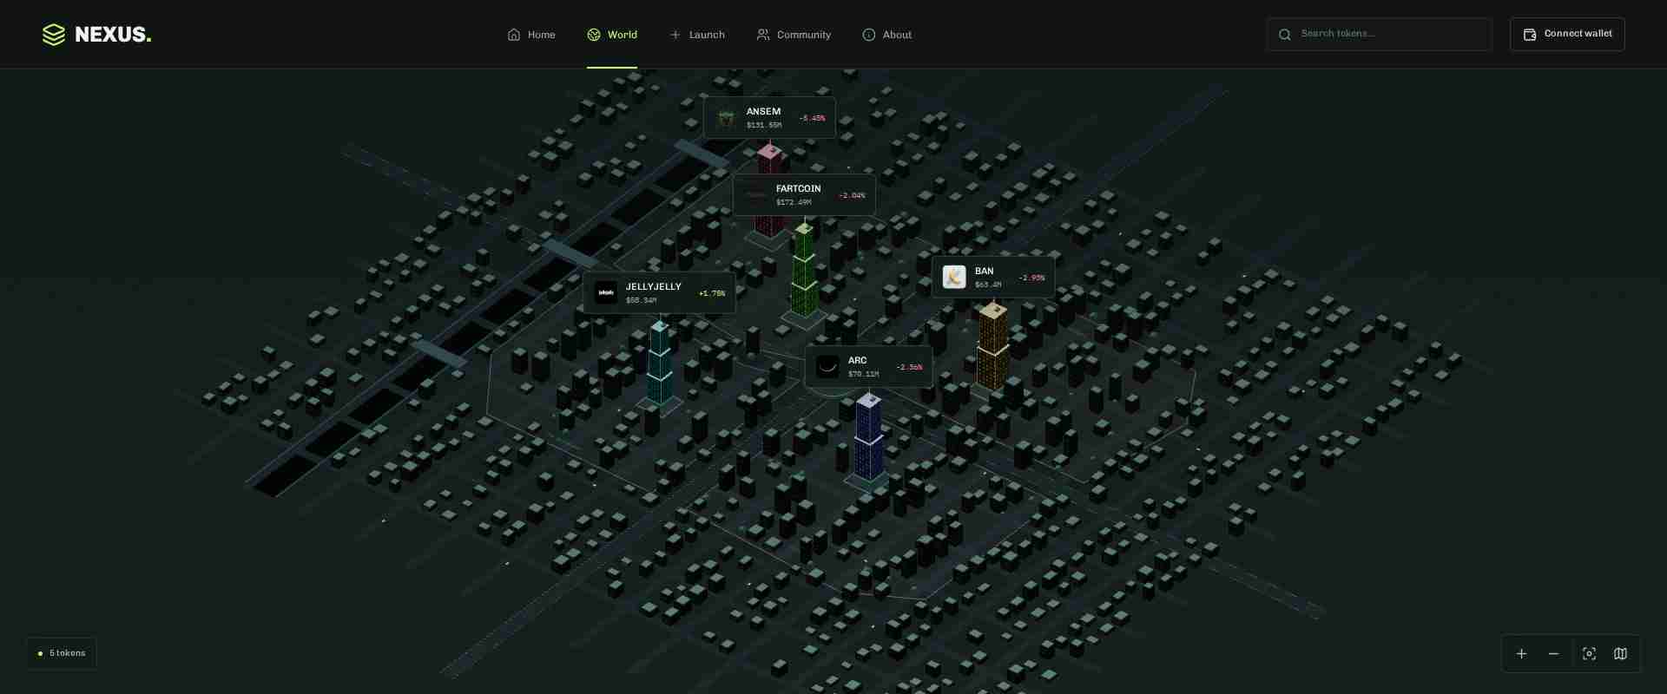
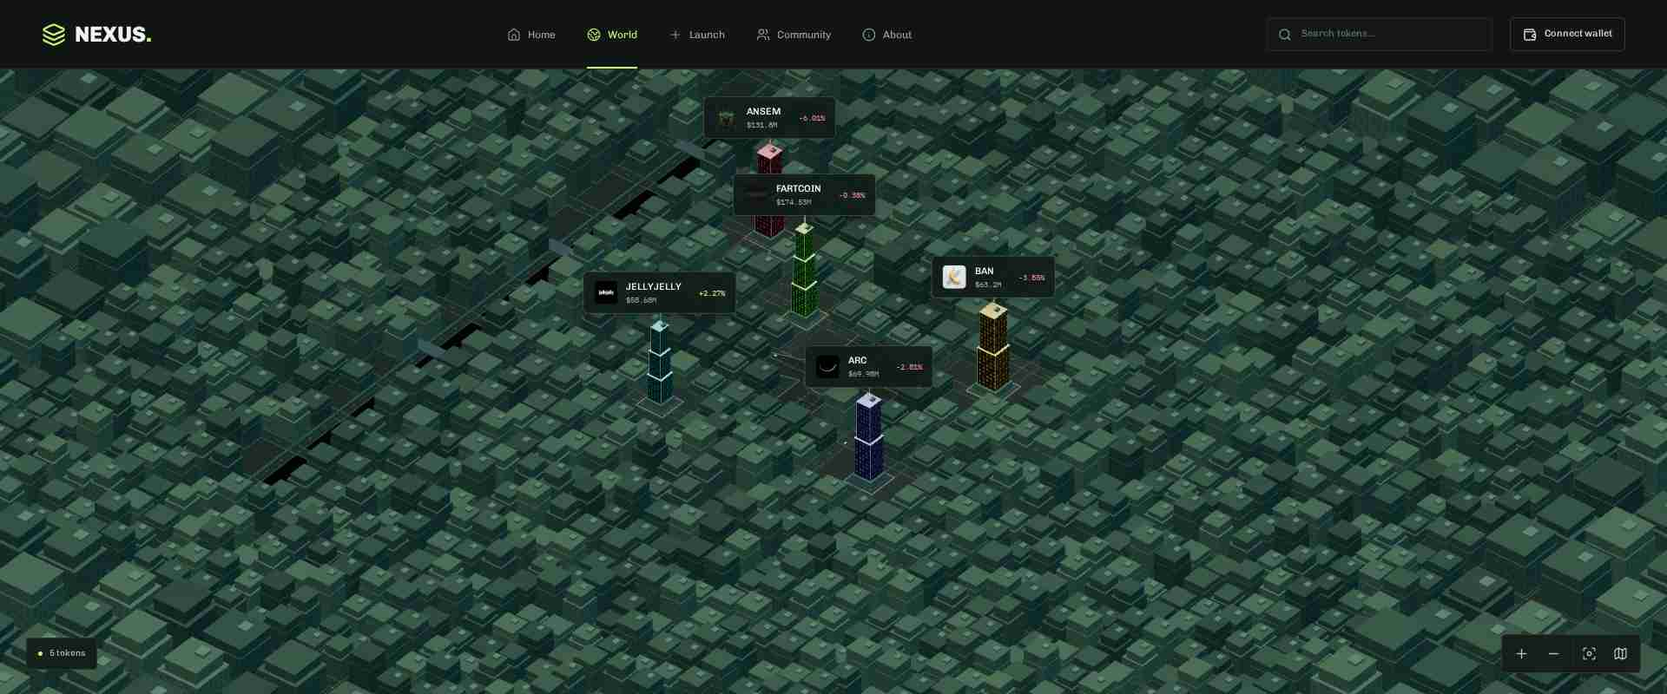
## Sudah ditambahkan - **Undangan komunitas:** tombol Share dan Copy link. Penerima langsung masuk ke komunitas tanpa perlu login untuk membacanya. - **World lebih penuh:** 7.406 bangunan pendukung mengisi kota, sementara lima bangunan token asli tetap berwarna dan mudah dikenali—tanpa token palsu. 
[Buka World](https://world-launchpad-core.preview.emergentagent.com/world) · [Coba undangan komunitas](https://world-launchpad-core.preview.emergentagent.com/community/fartcoin)

**Pilihan selanjutnya**
- **QR Undangan**: Tambahkan kode QR agar teman dapat langsung membuka komunitas token dengan memindai undangannya
- **Bangunan Unik**: Tambahkan variasi bentuk bangunan token agar setiap komunitas memiliki identitas visual yang berbeda
- **Komunitas Favorit**: Tambahkan komunitas favorit di halaman Community agar pengguna mudah kembali ke tempat yang sering dikunjungi

Emergent-Commit-Key: 2be3ad929a50af1b5e991f4d00f5c9751beb01b7463fbddbb104a3bbf7f26a69

diff --git a/frontend/src/world/geometry.js b/frontend/src/world/geometry.js
@@ -1,4 +1,6 @@
 import * as THREE from 'three';
+import {CITY_RADIUS,makeStreetNetwork} from './scenery';
+export {makeScenery} from './scenery';
 export const districtData=[
  {id:'meme',name:'MEME QUARTER',color:'#b6f36e',x:-38,z:-25,points:[[-75,-61],[-7,-61],[-7,-4],[-25,2],[-75,-4]]},
  {id:'defi',name:'DEFI HEIGHTS',color:'#f1bd6c',x:34,z:-28,points:[[3,-61],[70,-61],[82,-42],[77,-6],[3,-6]]},
@@ -11,20 +13,14 @@ export function line(parent,points,color,opacity=1){const g=new THREE.BufferGeom
 export function floorShape(parent,points,color,opacity=1,y=.05){const s=new THREE.Shape();points.forEach(([x,z],i)=>i?s.lineTo(x,-z):s.moveTo(x,-z));s.closePath();const m=new THREE.Mesh(new THREE.ShapeGeometry(s),new THREE.MeshBasicMaterial({color,transparent:true,opacity,side:THREE.DoubleSide}));m.rotation.x=-Math.PI/2;m.position.y=y;parent.add(m);return m;}
 function textPlane(parent,text,x,z,color,size=7,width=40){const c=document.createElement('canvas');c.width=1024;c.height=128;const ctx=c.getContext('2d');ctx.font='500 46px monospace';ctx.fillStyle=color;ctx.textAlign='center';ctx.fillText(text,512,82);const t=new THREE.CanvasTexture(c);t.colorSpace=THREE.SRGBColorSpace;const p=new THREE.Mesh(new THREE.PlaneGeometry(width,size),new THREE.MeshBasicMaterial({map:t,transparent:true,opacity:.66,depthWrite:false}));p.rotation.x=-Math.PI/2;p.position.set(x,.12,z);parent.add(p);}
 export function makeTerrain(scene){
- const ground=box(scene,0,-1,0,600,.7,600,mat('#0b1114'));
- const grid=new THREE.GridHelper(520,104,'#1a242b','#151d22');grid.position.y=-.24;scene.add(grid);
+ const ground=box(scene,0,-1,0,CITY_RADIUS*2+120,.7,CITY_RADIUS*2+120,mat('#15201b'));
  const territories=new THREE.Group();scene.add(territories);
  districtData.forEach(d=>{
   floorShape(territories,d.points,d.color,.044,.03);
   line(territories,[...d.points,d.points[0]].map(([x,z])=>[x,.09,z]),d.color,.45);
   textPlane(scene,d.name,d.x,d.z+(d.z<0?-27:27),d.color,4.2,36);
  });
- const asphalt=mat('#141c21'),curb=mat('#273037');
- // A connected street network crosses district borders and extends beyond the city center.
- for(let i=-108;i<=108;i+=18){
-  box(scene,i,-.09,0,2.8,.08,260,asphalt);box(scene,0,-.09,i,260,.08,2.8,asphalt);
-  for(let j=-130;j<130;j+=6){box(scene,i,.01,j,.09,.025,1.5,curb);box(scene,j,.01,i,1.5,.025,.09,curb);}
- }
+ const asphalt=mat('#141c21');makeStreetNetwork(scene);
  const lane=mat('#50635e',{emissive:'#94bfad',emissiveIntensity:.25});
  box(scene,0,-.05,0,5,.07,320,asphalt);box(scene,0,-.05,0,320,.07,5,asphalt);
  [-2.1,2.1].forEach(x=>{box(scene,x,.005,0,.035,.03,320,lane);box(scene,0,.005,x,320,.03,.035,lane);});
@@ -37,28 +33,6 @@ export function makeTerrain(scene){
  const crystal=new THREE.Mesh(new THREE.OctahedronGeometry(2.1),mat('#c3f795',{emissive:'#8bd55d',emissiveIntensity:.8,metalness:.65}));crystal.position.y=5;scene.add(crystal);
  textPlane(scene,'GENESIS PLAZA',0,11,'#aabbb4',3,21);
  return {territories,crystal,ground};
-}
-export function makeScenery(scene,tokens){
- const positions=[];let seed=72;const random=()=>{seed=(seed*16807)%2147483647;return(seed-1)/2147483646;};
- for(let x=-120;x<124;x+=6)for(let z=-105;z<110;z+=6){
-  if(Math.abs(x%18)<3 || Math.abs(z%18)<3 || Math.abs(x+86)<7 || Math.hypot(x,z)<13)continue;
-  if(tokens.some(t=>Math.hypot(t.x-x,t.z-z)<7.5))continue;
-  if(random()<.23)continue;
-  const central=Math.abs(x)<76&&Math.abs(z)<69;
-  positions.push({x:x+random()*1.5,z:z+random()*1.5,h:(1+random()*7)*(central?1:.5),w:2+random()*1.6,d:2+random()*2,r:random()});
- }
- const geometry=new THREE.BoxGeometry(1,1,1),material=mat('#334048');
- const blocks=new THREE.InstancedMesh(geometry,material,positions.length),roofs=new THREE.InstancedMesh(geometry,mat('#50615f'),positions.length);
- const windows=new THREE.InstancedMesh(geometry,new THREE.MeshBasicMaterial({color:'#899b86',transparent:true,opacity:.3}),positions.length*3);
- const dummy=new THREE.Object3D();
- positions.forEach((p,i)=>{
-  dummy.position.set(p.x,p.h/2,p.z);dummy.scale.set(p.w,p.h,p.d);dummy.updateMatrix();blocks.setMatrixAt(i,dummy.matrix);
-  blocks.setColorAt(i,new THREE.Color(p.r>.6?'#35434a':p.r>.3?'#28383a':'#3b454b'));
-  dummy.position.y=p.h+.1;dummy.scale.set(p.w*.8,.18,p.d*.8);dummy.updateMatrix();roofs.setMatrixAt(i,dummy.matrix);
-  for(let j=0;j<3;j++){dummy.position.set(p.x,p.h*(.25+j*.25),p.z+p.d/2+.01);dummy.scale.set(p.w*.68,.08,.02);dummy.updateMatrix();windows.setMatrixAt(i*3+j,dummy.matrix);}
- });scene.add(blocks,roofs,windows);
- const treeMat=mat('#385449'),trunkMat=mat('#374039');
- for(let i=0;i<85;i++){const x=random()*152-76,z=random()*132-66;if(tokens.some(t=>Math.hypot(t.x-x,t.z-z)<7)||Math.abs(x)<5||Math.abs(z)<5)continue;const tree=new THREE.Mesh(new THREE.IcosahedronGeometry(.7+random()*.5,0),treeMat);tree.position.set(x,1.5,z);scene.add(tree);box(scene,x,0,z,.18,1.2,.18,trunkMat);}
 }
 function windowTexture(color){const c=document.createElement('canvas');c.width=64;c.height=128;const ctx=c.getContext('2d');ctx.fillStyle='#172a29';ctx.fillRect(0,0,64,128);ctx.fillStyle=color;for(let y=7;y<128;y+=13)for(let x=7;x<64;x+=13){ctx.globalAlpha=(x+y)%3===0?.35:.7;ctx.fillRect(x,y,5,6);}const t=new THREE.CanvasTexture(c);t.colorSpace=THREE.SRGBColorSpace;t.wrapS=t.wrapT=THREE.RepeatWrapping;return t;}
 export const tokenHeight=cap=>cap==null?4:Math.min(38,5+Math.log10(Math.max(cap,1000)/100000+1)*7.2);

diff --git a/frontend/src/world/CityCanvas.jsx b/frontend/src/world/CityCanvas.jsx
@@ -18,16 +18,17 @@ export const CityCanvas=forwardRef(({tokens,onSelect,district,layers,onCamera},r
  }),[]);
  useEffect(()=>{
   if(!mount.current)return;
-  const host=mount.current;const scene=new THREE.Scene();scene.background=new THREE.Color('#0b1013');scene.fog=new THREE.FogExp2('#0b1013',.0022);
+  const host=mount.current;const scene=new THREE.Scene();scene.background=new THREE.Color('#0b1013');scene.fog=new THREE.FogExp2('#0b1013',.00115);
   let renderer;
   try{renderer=new THREE.WebGLRenderer({antialias:true,alpha:false,powerPreference:'high-performance',preserveDrawingBuffer:true});}catch{setFailed(true);return;}
   renderer.setPixelRatio(Math.min(window.devicePixelRatio,1.5));renderer.setSize(host.clientWidth,host.clientHeight);renderer.outputColorSpace=THREE.SRGBColorSpace;renderer.toneMapping=THREE.ACESFilmicToneMapping;renderer.toneMappingExposure=1.4;
   renderer.domElement.setAttribute('data-testid','city-canvas');renderer.domElement.setAttribute('aria-label','Interactive 3D token city');host.prepend(renderer.domElement);
   const aspect=host.clientWidth/host.clientHeight,frustum=Math.max(160,145/aspect);
-  const camera=new THREE.OrthographicCamera(-frustum*aspect/2,frustum*aspect/2,frustum/2,-frustum/2,.1,1200);camera.position.set(115,140,145);
+  const camera=new THREE.OrthographicCamera(-frustum*aspect/2,frustum*aspect/2,frustum/2,-frustum/2,.1,2500);camera.position.set(115,140,145);
   const controls=new OrbitControls(camera,renderer.domElement);controls.target.set(0,0,0);controls.enableDamping=true;controls.dampingFactor=.09;controls.minZoom=.5;controls.maxZoom=3.5;controls.maxPolarAngle=Math.PI*.47;controls.minPolarAngle=.05;controls.mouseButtons={LEFT:THREE.MOUSE.PAN,MIDDLE:THREE.MOUSE.DOLLY,RIGHT:THREE.MOUSE.ROTATE};controls.touches={ONE:THREE.TOUCH.PAN,TWO:THREE.TOUCH.DOLLY_ROTATE};
   scene.add(new THREE.AmbientLight('#b8d4d2',2));const sun=new THREE.DirectionalLight('#e7f7e9',3);sun.position.set(-70,120,30);scene.add(sun);const fill=new THREE.DirectionalLight('#6ca8bf',1.8);fill.position.set(80,30,-80);scene.add(fill);
-  const terrain=makeTerrain(scene);makeScenery(scene,tokens);batchScenery(scene,new Set([terrain.crystal]));const towers=tokens.map((t,i)=>makeTower(scene,t,i));
+  const terrain=makeTerrain(scene),scenery=makeScenery(scene,tokens);batchScenery(scene,new Set([terrain.crystal]));const towers=tokens.map((t,i)=>makeTower(scene,t,i));
+  renderer.domElement.setAttribute('data-scenery-buildings',String(scenery.buildingCount));renderer.domElement.setAttribute('data-token-buildings',String(tokens.length));
   const cars=[];for(let i=0;i<26;i++){const m=box(scene,0,.15,0,.35,.16,.8,new THREE.MeshBasicMaterial({color:i%3===0?'#ffb5a5':'#d5eddc'}));cars.push({m,axis:i%2,road:(i%9-4)*18,offset:i*9.3,speed:2.5+(i%4)});}
   const raycaster=new THREE.Raycaster(),pointer=new THREE.Vector2();let down=null;
   const pointerdown=e=>{down=e.button===0?{x:e.clientX,y:e.clientY}:null;};
@@ -36,7 +37,10 @@ export const CityCanvas=forwardRef(({tokens,onSelect,district,layers,onCamera},r
   const resize=new ResizeObserver(()=>{const w=host.clientWidth,h=host.clientHeight;if(!w||!h)return;const size=Math.max(160,145/(w/h));camera.left=-size*w/h/2;camera.right=size*w/h/2;camera.top=size/2;camera.bottom=-size/2;camera.updateProjectionMatrix();renderer.setSize(w,h);});resize.observe(host);
   engine.current={scene,camera,controls,terrain,towers};let frame=0,raf;const clock=new THREE.Timer();clock.connect(document);
   const animate=()=>{
-   raf=requestAnimationFrame(animate);clock.update();const elapsed=clock.getElapsed();controls.update();terrain.crystal.rotation.y=elapsed*.25;terrain.crystal.position.y=5+Math.sin(elapsed)*.25;
+   raf=requestAnimationFrame(animate);clock.update();const elapsed=clock.getElapsed();controls.update();
+   const panX=THREE.MathUtils.clamp(controls.target.x,-120,120)-controls.target.x,panZ=THREE.MathUtils.clamp(controls.target.z,-120,120)-controls.target.z;
+   if(panX||panZ){controls.target.x+=panX;controls.target.z+=panZ;camera.position.x+=panX;camera.position.z+=panZ;}
+   terrain.crystal.rotation.y=elapsed*.25;terrain.crystal.position.y=5+Math.sin(elapsed)*.25;
    cars.forEach(({m,axis,road,offset,speed})=>{const pos=(elapsed*speed+offset)%250-125;m.position.set(axis?road+.75:pos,.3,axis?pos:road+.75);m.rotation.y=axis?0:Math.PI/2;});
    towers.forEach(t=>{t.building.scale.y=THREE.MathUtils.lerp(t.building.scale.y,t.targetHeight/t.height,.025);});
    if(frame++%2===0){

diff --git a/frontend/src/world/scenery.js b/frontend/src/world/scenery.js
@@ -1,0 +1,79 @@
+import * as THREE from 'three';
+
+export const CITY_RADIUS=720;
+const STREET=18;
+const colors=['#56645f','#485c5a','#60706a','#465552','#67756b','#52615d'];
+const material=(color,extra={})=>new THREE.MeshStandardMaterial({color,roughness:.82,metalness:.12,...extra});
+
+function windowTexture(){
+ const canvas=document.createElement('canvas');canvas.width=64;canvas.height=128;
+ const ctx=canvas.getContext('2d');ctx.fillStyle='#b2bdb7';ctx.fillRect(0,0,64,128);
+ for(let row=0;row<12;row++)for(let column=0;column<6;column++){
+  ctx.fillStyle=(row*7+column*11)%5===0?'#d5dfba':'#536862';
+  ctx.fillRect(5+column*10,5+row*10,3,4);
+ }
+ const texture=new THREE.CanvasTexture(canvas);texture.colorSpace=THREE.SRGBColorSpace;
+ texture.magFilter=THREE.LinearFilter;texture.minFilter=THREE.LinearMipmapLinearFilter;
+ return texture;
+}
+
+function instances(scene,name,entries,mat){
+ const mesh=new THREE.InstancedMesh(new THREE.BoxGeometry(1,1,1),mat,entries.length);
+ mesh.name=name;const dummy=new THREE.Object3D();
+ entries.forEach((p,index)=>{
+  dummy.position.set(p.x,p.y+p.h/2,p.z);dummy.scale.set(p.w,p.h,p.d);dummy.updateMatrix();
+  mesh.setMatrixAt(index,dummy.matrix);if(p.color)mesh.setColorAt(index,new THREE.Color(p.color));
+ });
+ mesh.computeBoundingSphere();scene.add(mesh);return mesh;
+}
+
+// Dense neutral city fabric, never token entities: no IDs, labels, market values or click targets.
+export function makeScenery(scene,tokens){
+ const bodies=[],roofs=[],podiums=[],details=[];
+ let seed=72;const random=()=>{seed=(seed*16807)%2147483647;return(seed-1)/2147483646;};
+ for(let bx=-CITY_RADIUS;bx<CITY_RADIUS;bx+=STREET)for(let bz=-CITY_RADIUS;bz<CITY_RADIUS;bz+=STREET){
+  const inner=Math.abs(bx)<180&&Math.abs(bz)<180;
+  const lots=inner?[[4.8,4.8],[13.2,4.8],[4.8,13.2],[13.2,13.2]]:[[9,9]];
+  for(const [dx,dz] of lots){
+   const x=bx+dx,z=bz+dz,w=inner?6.25+random()*.65:12.5+random(),d=inner?6.25+random()*.65:12.5+random();
+   // Maintain walkable token plots, the central plaza and the existing canal.
+   if(Math.hypot(x,z)<11+Math.max(w,d)/2)continue;
+   if(x+w/2>-91.5&&x-w/2<-80.5&&z+d/2>-88&&z-d/2<129)continue;
+   const nearest=tokens.reduce((min,t)=>Math.min(min,Math.hypot(t.x-x,t.z-z)),Infinity);
+   if(nearest<8+Math.max(w,d)/2)continue;
+   let h=inner?4+random()*8:5+random()*10;
+   if(nearest<24)h=Math.min(h,3.6+random()*1.8);
+   const color=colors[Math.floor(random()*colors.length)],setback=random()>.6;
+   podiums.push({x,z,y:0,w:w+.3,d:d+.3,h:.25,color:'#3a4942'});
+   bodies.push({x,z,y:.25,w,d,h:h*.72,color});
+   bodies.push({x:x+(setback?.28:0),z,y:.25+h*.72,w:w*(setback?.76:.96),d:d*(setback?.85:.96),h:h*.28,color});
+   roofs.push({x:x+(setback?.28:0),z,y:h+.25,w:w*(setback?.8:1),d:d*(setback?.89:1),h:.18,color});
+   if(random()>.35)details.push({x:x+w*.12,z:z-d*.14,y:h+.45,w:w*.23,d:d*.26,h:.45+random()*.55,color:'#61746c'});
+  }
+ }
+ instances(scene,'city-building-podiums',podiums,material('#ffffff'));
+ instances(scene,'city-building-facades',bodies,material('#ffffff',{map:windowTexture()}));
+ instances(scene,'city-building-rooftops',roofs,material('#a8b5a4'));
+ instances(scene,'city-rooftop-details',details,material('#d0d8ce'));
+ return {buildingCount:podiums.length};
+}
+
+export function makeStreetNetwork(scene){
+ const roads=[],markings=[],curbs=[];
+ for(let road=-CITY_RADIUS;road<=CITY_RADIUS;road+=STREET){
+  roads.push({x:road,z:0,y:-.1,w:3.1,h:.1,d:CITY_RADIUS*2});
+  roads.push({x:0,z:road,y:-.1,w:CITY_RADIUS*2,h:.1,d:3.1});
+  for(const offset of [-1.65,1.65]){
+   curbs.push({x:road+offset,z:0,y:0,w:.16,h:.12,d:CITY_RADIUS*2});
+   curbs.push({x:0,z:road+offset,y:0,w:CITY_RADIUS*2,h:.12,d:.16});
+  }
+  if(Math.abs(road)<=180)for(let dash=-180;dash<=180;dash+=6){
+   if(Math.abs(dash%18)<2)continue;
+   markings.push({x:road,z:dash,y:.01,w:.07,h:.015,d:1.4});
+   markings.push({x:dash,z:road,y:.01,w:1.4,h:.015,d:.07});
+  }
+ }
+ instances(scene,'city-streets',roads,material('#18231f'));
+ instances(scene,'city-sidewalks',curbs,material('#46554b'));
+ instances(scene,'city-road-markings',markings,material('#768875'));
+}

diff --git a/frontend/src/components/community/CommunityInvite.jsx b/frontend/src/components/community/CommunityInvite.jsx
@@ -1,0 +1,52 @@
+import React,{useEffect,useRef,useState} from 'react';
+import {Share2,Copy,Check,Link2} from 'lucide-react';
+import {toast} from 'sonner';
+import {Dialog,DialogContent,DialogTitle,DialogDescription} from '../ui/dialog';
+import {TokenAvatar} from '../Shared';
+
+export const CommunityInvite=({token})=>{
+ const [open,setOpen]=useState(false),[copied,setCopied]=useState(false),[sharing,setSharing]=useState(false),[message,setMessage]=useState('');
+ const timer=useRef(),input=useRef(),alive=useRef(true);
+ const url=new URL(`/community/${encodeURIComponent(token.id)}`,window.location.origin).href;
+ const id=`community-invite-${token.id}`;
+ const payload={title:`${token.name} community | NEXUS`,text:`Join the ${token.name} ($${token.symbol}) community on NEXUS.`,url};
+ const nativeShare=typeof navigator.share==='function';
+ useEffect(()=>{alive.current=true;return()=>{alive.current=false;clearTimeout(timer.current);};},[]);
+ const copy=async()=>{
+  clearTimeout(timer.current);setMessage('');setCopied(false);
+  try{
+   if(!navigator.clipboard?.writeText)throw new Error('Clipboard unavailable');
+   await navigator.clipboard.writeText(url);
+   if(!alive.current)return;
+   setCopied(true);toast.success('Community link copied');
+   timer.current=setTimeout(()=>{if(alive.current)setCopied(false);},2200);
+  }catch{
+   if(!alive.current)return;
+   setMessage('Clipboard access is unavailable. Select and copy the link below.');setOpen(true);
+   requestAnimationFrame(()=>{input.current?.focus();input.current?.select();});
+  }
+ };
+ const share=async()=>{
+  setMessage('');
+  if(!nativeShare){setOpen(true);return;}
+  setSharing(true);
+  try{await navigator.share(payload);}
+  catch(error){if(alive.current&&error?.name!=='AbortError'){setMessage('Sharing is unavailable in this browser. You can still copy the link.');setOpen(true);}}
+  finally{if(alive.current)setSharing(false);}
+ };
+ return <>
+  <div className="community-invite-actions" data-testid={`${id}-actions`}>
+   <button type="button" className="invite-share-button" data-testid={`${id}-share`} disabled={sharing} onClick={share}><Share2 size={14}/><span>Share</span></button>
+   <button type="button" className="invite-copy-button" data-testid={`${id}-copy`} onClick={copy}>{copied?<Check size={14}/>:<Copy size={14}/>}<span aria-live="polite" data-testid={`${id}-copy-status`}>{copied?'Copied':'Copy link'}</span></button>
+  </div>
+  <Dialog open={open} onOpenChange={value=>{setOpen(value);if(!value)setMessage('');}}><DialogContent className="nexus-dialog community-invite-dialog" data-testid={`${id}-dialog`} onOpenAutoFocus={e=>{e.preventDefault();input.current?.focus();input.current?.select();}}>
+   <DialogTitle data-testid={`${id}-title`}>Invite your people.</DialogTitle>
+   <DialogDescription data-testid={`${id}-description`}>The {token.name} community on NEXUS.</DialogDescription>
+   <div className="invite-token-identity"><TokenAvatar token={token} size={44}/><div><strong data-testid={`${id}-token-name`}>{token.name}</strong><span data-testid={`${id}-token-symbol`}>${token.symbol}</span></div></div>
+   <label className="invite-link-label" htmlFor={`${id}-url`} data-testid={`${id}-label`}>Community link</label>
+   <div className="invite-link-field"><Link2 size={15}/><input id={`${id}-url`} ref={input} readOnly value={url} data-testid={`${id}-url`} onFocus={e=>e.target.select()} onClick={e=>e.currentTarget.select()}/></div>
+   {message&&<p className="invite-message" role="status" data-testid={`${id}-message`}>{message}</p>}
+   <div className="invite-dialog-actions">{nativeShare&&<button type="button" className="invite-share-button" disabled={sharing} onClick={share} data-testid={`${id}-native-share`}><Share2 size={15}/>Share</button>}<button type="button" className="primary-cta" onClick={copy} data-testid={`${id}-dialog-copy`}>{copied?<Check size={15}/>:<Copy size={15}/>}<span aria-live="polite" data-testid={`${id}-dialog-copy-status`}>{copied?'Copied':'Copy link'}</span></button></div>
+  </DialogContent></Dialog>
+ </>;
+};

diff --git a/frontend/src/pages/Community.jsx b/frontend/src/pages/Community.jsx
@@ -8,6 +8,7 @@ import {TokenAvatar,Loading,Empty} from '../components/Shared';
 import {TokenCommunity} from '../components/community/TokenCommunity';
 import {PostComposer} from '../components/community/PostComposer';
 import {PostCard} from '../components/community/PostCard';
+import {CommunityInvite} from '../components/community/CommunityInvite';
 
 export default function Community(){
  const {id,postId}=useParams(),{wallet}=useWallet(),navigate=useRealmNavigate(),{api}=useRealm();
@@ -26,7 +27,7 @@ export default function Community(){
  useEffect(()=>{const counter=generation;setPost(null);setReplies([]);if(postId)loadThread();return()=>{counter.current++;};},[postId,loadThread,wallet]);
  if(error)return <main className="content-page"><Empty icon={MessageSquare} title={error} testId="community-page-error"><Link to={`/token/${id}`} data-testid="community-error-back" className="text-cta">Back to Token Hub</Link></Empty></main>;
  if(!token)return <main className="content-page"><Loading/></main>;
- return <main className="content-page social-page" data-testid="community-page"><div className="page-breadcrumb"><Link to={`/token/${id}`} data-testid="community-back-hub"><ArrowLeft size={15}/>Token Hub</Link><span>/</span><Link to={`/community/${id}`} data-testid="community-root-link">{token.symbol} Community</Link>{postId&&<><span>/</span><span data-testid="conversation-breadcrumb">Conversation</span></>}</div><div className="social-page-heading"><TokenAvatar token={token} size={48}/><div><span className="eyebrow" data-testid="community-eyebrow">NEXUS COMMUNITY</span><h1 data-testid="community-page-title">{token.name}</h1></div><Link data-testid="community-token-hub" to={`/token/${id}`}>Token Hub ↗</Link></div>
+ return <main className="content-page social-page" data-testid="community-page"><div className="page-breadcrumb"><Link to={`/token/${id}`} data-testid="community-back-hub"><ArrowLeft size={15}/>Token Hub</Link><span>/</span><Link to={`/community/${id}`} data-testid="community-root-link">{token.symbol} Community</Link>{postId&&<><span>/</span><span data-testid="conversation-breadcrumb">Conversation</span></>}</div><div className="social-page-heading"><TokenAvatar token={token} size={48}/><div><span className="eyebrow" data-testid="community-eyebrow">NEXUS COMMUNITY</span><h1 data-testid="community-page-title">{token.name}</h1></div><div className="community-heading-actions">{token.community_enabled&&<CommunityInvite key={token.id} token={token}/>}<Link data-testid="community-token-hub" to={`/token/${id}`}>Token Hub ↗</Link></div></div>
  {!token.community_enabled?<TokenCommunity token={token}/>:postId?<section className="social-thread" data-testid="social-thread">{post?<><PostCard post={post} onChange={setPost} onDeleted={()=>navigate(`/community/${id}`)}/>{!post.deleted&&<PostComposer token={token} parentId={post.id} onPosted={loadThread}/>}<h2 className="social-reply-heading" data-testid="thread-reply-count">Replies · {replies.length}</h2>{replies.map(r=><PostCard key={r.id} post={r} onChange={updated=>setReplies(old=>old.map(x=>x.id===updated.id?updated:x))} onDeleted={loadThread}/>)}</>:<Loading text="Opening conversation…"/>}</section>:<TokenCommunity token={token}/>}
  </main>;
 }

diff --git a/frontend/src/invitations.css b/frontend/src/invitations.css
@@ -1,0 +1,2 @@
+.social-page-heading>.community-heading-actions{display:flex;align-items:flex-end;flex-direction:column;gap:14px;flex:0 0 auto;min-width:0}.community-heading-actions>a{font-size:10px;color:#a9c88f;white-space:nowrap}.community-invite-actions{display:flex;align-items:center;gap:8px}.invite-share-button,.invite-copy-button{display:inline-flex;align-items:center;justify-content:center;gap:7px;min-height:36px;padding:9px 12px;border:1px solid #b9d79835;border-radius:4px;font-size:10px;white-space:nowrap;color:#c2dfa9;transition:background-color .18s,border-color .18s,transform .18s}.invite-share-button{background:#bddb9710}.invite-share-button:hover,.invite-copy-button:hover{background:#bddb971d;border-color:#b9d79870;transform:translateY(-1px)}.invite-copy-button{min-width:100px}.invite-share-button:disabled{opacity:.5;cursor:wait;transform:none}.community-invite-dialog{max-width:440px;width:calc(100% - 36px);padding:26px;gap:16px}.community-invite-dialog h2{font-size:18px;color:#e8f3de;padding-right:25px;line-height:1.5}.community-invite-dialog>p{font-size:12px;line-height:1.8;color:#8fa67f}.invite-token-identity{display:flex;align-items:center;gap:13px;padding:7px 0 8px;border-bottom:1px solid var(--line)}.invite-token-identity .token-avatar{border-radius:6px}.invite-token-identity>div{display:flex;flex-direction:column;gap:7px;min-width:0;padding-bottom:9px}.invite-token-identity strong{font-size:13px;font-weight:500;color:#d8eac9;overflow-wrap:anywhere}.invite-token-identity span{font:10px var(--mono);color:#8daa77}.invite-link-label{font-size:10px;color:#9caf8e;margin-bottom:-8px}.invite-link-field{display:flex;align-items:center;gap:9px;border:1px solid #b9d79835;border-radius:4px;padding:12px;background:#0c150dd6;min-width:0;color:#8ba475}.invite-link-field svg{flex-shrink:0}.invite-link-field input{width:100%;min-width:0;background:none;border:0;outline:none;color:#cae0b8;font:10px var(--mono);line-height:1.5}.invite-link-field:focus-within{border-color:#b8db8c}.invite-dialog-actions{display:flex;justify-content:flex-end;gap:9px;padding-top:2px}.invite-dialog-actions .primary-cta{min-height:39px;padding:0 16px;font-size:11px;min-width:112px}.community-invite-dialog>.invite-message{font-size:11px;color:#d4c598;line-height:1.8}.invite-dialog-actions .invite-share-button{font-size:11px;padding:10px 14px}
+@media(max-width:600px){.social-page-heading{flex-wrap:wrap}.social-page-heading>.community-heading-actions{flex:1 0 100%;flex-direction:row;align-items:center;justify-content:space-between;padding-top:5px;gap:10px}.community-heading-actions>a{font-size:9px}.community-invite-actions{gap:7px}.invite-share-button,.invite-copy-button{font-size:10px;padding:9px 10px;min-height:36px}.invite-copy-button{min-width:92px}.community-invite-dialog{width:calc(100% - 32px);padding:22px;max-height:calc(100dvh - 40px);overflow-y:auto}.invite-link-field input{font-size:10px}.community-invite-dialog h2{font-size:18px}}

diff --git a/frontend/src/App.js b/frontend/src/App.js
@@ -22,6 +22,7 @@ import './social.css';
 import './community-extras.css';
 import './spatial.css';
 import './entry.css';
+import './invitations.css';
 
 function LegacyRedirect(){
  const {pathname,search,hash}=useLocation();

diff --git a/scripts/capture_product_assets.py b/scripts/capture_product_assets.py
@@ -1,6 +1,7 @@
 """Generate actual product imagery for the landing page; not fixture data or test screenshots."""
 import asyncio
 import base64
+import sys
 from pathlib import Path
 from dotenv import dotenv_values
 from playwright.async_api import async_playwright
@@ -9,6 +10,7 @@ async def capture():
     url=dotenv_values('/app/frontend/.env')['REACT_APP_BACKEND_URL']
     output=Path('/app/frontend/public/previews')
     output.mkdir(parents=True,exist_ok=True)
+    captures={}
     async with async_playwright() as p:
         browser=await p.chromium.launch(headless=True,args=['--no-sandbox','--enable-webgl','--use-gl=angle','--use-angle=swiftshader','--disable-dev-shm-usage'])
         page=await browser.new_page(viewport={'width':1920,'height':800},device_scale_factor=1)
@@ -16,17 +18,20 @@ async def capture():
         await page.wait_for_selector('[data-testid="token-building-fartcoin"]',timeout=90000)
         await page.wait_for_timeout(2500)
         image=await page.locator('[data-testid="city-canvas"]').evaluate("canvas => canvas.toDataURL('image/jpeg', 0.9)")
-        (output/'world-scene.jpg').write_bytes(base64.b64decode(image.split(',')[1]))
-        await page.screenshot(path=str(output/'world-preview.jpg'),quality=20,full_page=False)
-        await page.goto(f'{url}/token/fartcoin',wait_until='domcontentloaded',timeout=60000)
-        await page.wait_for_selector('[data-testid="join-community"]',timeout=45000)
-        await page.wait_for_timeout(15000)
-        await page.screenshot(path=str(output/'token-preview.jpg'),quality=20,full_page=False)
-        await page.goto(f'{url}/launch',wait_until='domcontentloaded',timeout=60000)
-        await page.wait_for_selector('[data-testid="launch-name"]',timeout=45000)
-        await page.wait_for_timeout(1000)
-        await page.screenshot(path=str(output/'launch-preview.jpg'),quality=20,full_page=False)
+        captures['world-scene.jpg']=base64.b64decode(image.split(',')[1])
+        captures['world-preview.jpg']=await page.screenshot(type='jpeg',quality=20,full_page=False)
+        if '--world-only' not in sys.argv:
+            await page.goto(f'{url}/token/fartcoin',wait_until='domcontentloaded',timeout=60000)
+            await page.wait_for_selector('[data-testid="join-community"]',timeout=45000)
+            await page.wait_for_timeout(15000)
+            captures['token-preview.jpg']=await page.screenshot(type='jpeg',quality=20,full_page=False)
+            await page.goto(f'{url}/launch',wait_until='domcontentloaded',timeout=60000)
+            await page.wait_for_selector('[data-testid="launch-name"]',timeout=45000)
+            await page.wait_for_timeout(1000)
+            captures['launch-preview.jpg']=await page.screenshot(type='jpeg',quality=20,full_page=False)
         await browser.close()
-    print('Saved authentic NEXUS product previews:',', '.join(p.name for p in output.glob('*.jpg')))
+    # Save after browser work to avoid hot-reload navigation races during capture.
+    for name,content in captures.items():(output/name).write_bytes(content)
+    print('Saved authentic NEXUS product previews:',', '.join(captures))
 
 asyncio.run(capture())

diff --git a/memory/PRD.md b/memory/PRD.md
@@ -1,5 +1,36 @@
 # NEXUS — Living Solana World
 
+## Latest feature addition — 2026-10-02, community invites and dense World
+
+### Original request
+“Tambahkan
+Undangan Komunitas: Tambahkan tautan undangan yang langsung membuka komunitas token saat dibagikan kepada teman
+Dan worldnya itu tolong lah buat full buidling jangan ada space kosong begitu jadi jelek keliatannya”
+
+### Explicit choices
+- “Perbanyak bangunan kota pendukung (Recommended): Isi area kosong dan rapatkan kota, tetapi bangunan token tetap mudah dikenali dan tidak menambahkan token palsu”.
+- “Tombol Bagikan + Salin Tautan (Recommended): Langsung membuka komunitas token, dengan pilihan berbagi bawaan ponsel jika tersedia”.
+
+### Implemented and architecture
+- Added reusable CommunityInvite to real token community page headings, including thread pages. Share uses native Web Share API when available; unsupported/error cases open a small Shadcn invitation dialog. Copy link always available, with copied state/toast only after Clipboard API success. Clipboard refusal exposes selectable URL and honest manual-copy message. Native share cancellation is silent.
+- Invite URL uses the current site origin and canonical `/community/{encoded-token-id}` route. No login, referral database, expiry or intermediate page. Thread sharing invites to its token community, not a post. No private session/query data is shared.
+- Dense city scenery moved to `world/scenery.js`: deterministic 7406 non-token buildings for the current five-token world, multi-part facades/roofs/rooftop utilities, much larger filled world, preserved core streets/canal/plaza and clear token lots. Seven instanced scenery/street meshes keep draw calls low. Neutral supporting buildings have no tokenId or clickable fake tokens.
+- Real token towers, coordinates, market-driven heights and five identities remain unchanged. Camera panning constrained to the filled city; zoom/pan/top/reset preserved. No HUD, labels or categories added.
+- Community sharing styles in `invitations.css`; mobile header actions wrap without changing five-destination navigation or homepage-first routing.
+- Initial desktop screenshot passed:7406 supporting buildings/5 token buildings, colored token labels visible; FARTCOIN building → token → community works; invite dialog shows exact same-origin canonical link.
+- Homepage/About world imagery and World product screenshot regenerated from the actual denser city. Capture script now buffers output until browser work ends to prevent hot-reload navigation races.
+- Testing iteration3:11/11 targeted backend regression checks passed; dense7406/5 counts, actual tower/label navigation, clipboard success/reset, clipboard refusal fallback, desktop390/320 sharing layout and no horizontal overflow passed. No confirmed product defects.
+- Main-agent follow-up resolved both testing-environment blockers WITHOUT adding runtime test hooks: success/AbortError/rejection native-share branches passed via test-only `add_init_script` navigator override before page load. Correct payload checked; cancellation silent, rejection opens copy fallback. Evidence console: `/root/.emergent/automation_output/20261002_231321/console_20261002_231321.log`.
+- Created one temporary signed-wallet post using existing auth test fixtures, opened its actual thread and verified Clipboard API copies only `/community/fartcoin`, stripping thread path, query and fragment. Fresh logged-out browser opened and reloaded the copied URL into correct community. Test post, feed/activity and session/profile/challenge data cleaned afterwards. Evidence console: `/root/.emergent/automation_output/20261002_231357/console_20261002_231357.log`.
+- Physical mobile OS share sheet was not exercised in headless automation; native API branches were tested with browser-only stubs. No mocked APIs or test stubs shipped in the app.
+
+### Remaining / priorities
+- P0: no confirmed defects remaining in this scope; invitations and dense-world regression complete.
+- P1: official social URLs remain pending from user; financial flows unchanged, no paid transactions executed.
+- P2: favorite communities, pinned creator announcements, community invite QR code if requested. Direct shareable community invitations are now implemented; remove them from historical backlog interpretation.
+
+---
+
 ## LATEST AUTHORITATIVE SCOPE — 2026-10-02, homepage and primary navigation
 
 This section supersedes the prior root-to-world requirement and all conflicting historical sections below.
@@ -82,7 +113,7 @@ The World is the experience. The navigation should stay simple.
 ### Current limitations and prioritized backlog
 - P0: none outstanding in the tested latest scope.
 - P1: user will supply official X/Telegram/Discord links. Paid mainnet launch/trade/payout verification still requires explicit user-controlled wallet execution and is not claimed complete.
-- P2: bookmark favorite communities, shareable community invites, pinned creator announcements. Do not add extra primary navigation categories.
+- P2: bookmark favorite communities and pinned creator announcements. Shareable community invites were implemented in the latest addition above. Do not add extra primary navigation categories.
 
 ---
 
